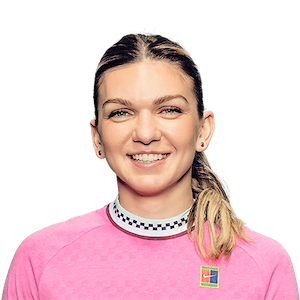
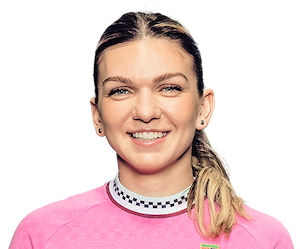
Players Doubles view is looking better

Changed region(s): [[0.0, 0.4498, 1.0, 1.0], [0.3, 0.0281, 0.72, 0.4217]]

diff --git a/src/components/PlayerRowDoubles.vue b/src/components/PlayerRowDoubles.vue
@@ -1,5 +1,5 @@
 <template>
-  <v-row class="player-row">
+  <v-row class="player-row-doubles">
     <v-col :key="`${team.id}`" sm="12" class="col-players">
       <v-row no-gutters>
 
@@ -14,66 +14,70 @@
         >
           <v-img
             :src="require(`../assets/images/headshots/placeholders/${player.gender === 'm' ? 'men' : 'women'}/${player.gender === 'm' ? 'federer' : 'halep'}.png`)"
-            width="280"
-            max-height="230"
-            contain
+            width="230"
             class="avatar"
           >
           </v-img>
         </v-col>
 
-        <!-- <v-col sm="9">
+        <v-col sm="6" class="col-info">
 
           <v-row no-gutters>
 
-            <v-col sm="12" style="margin-top: 20px;">
-              <h1 :class="getTextHeaderClass(player.gender)">{{player.firstName}} {{player.lastName}}</h1>
+            <v-col
+              sm="12"
+              class="player-names"
+            >
+              <h1>
+                <span
+                  v-for="(player, i) in team.players"
+                  :key="player.id"
+                  :class="getTextHeaderClass(player.gender)"
+                >
+                  <span v-if="i > 0" class="doubles-separator">/</span>
+                  {{player.firstName}} {{player.lastName}}
+                </span>
+              </h1>
             </v-col>
 
-            <v-col sm="6">
+            <v-col sm="4">
 
-              <v-row no-gutters style="margin-top: 20px;">
-
+              <v-row no-gutters class="row-player-info">
                 <v-col sm="12">
-                  <h3 :class="getTextHeaderClass(player.gender)">Ranking Points</h3>
+                  <h3>Ranking Points</h3>
                 </v-col>
                 <v-col sm="12">
                   540
                 </v-col>
-
               </v-row>
 
-              <v-row no-gutters style="margin-top: 20px;">
-
+              <v-row no-gutters class="row-player-info">
                 <v-col sm="12">
-                  <h3 :class="getTextHeaderClass(player.gender)">Matches Played</h3>
+                  <h3>Matches Played</h3>
                 </v-col>
                 <v-col sm="12">
                   35
                 </v-col>
-
               </v-row>
 
             </v-col>
 
-            <v-col sm="6">
+            <v-col sm="4">
 
-              <v-row no-gutters style="margin-top: 20px;">
-
+              <v-row no-gutters class="row-player-info">
                 <v-col sm="12">
-                  <h3 :class="getTextHeaderClass(player.gender)">Rating</h3>
+                  <h3>Rating</h3>
                 </v-col>
                 <v-col sm="12">
-                  4.0
+                  8.0
                 </v-col>
-
               </v-row>
 
             </v-col>
 
           </v-row>
 
-        </v-col> -->
+        </v-col>
 
       </v-row>
     </v-col>

diff --git a/src/components/PlayerRowSingles.vue b/src/components/PlayerRowSingles.vue
@@ -1,5 +1,5 @@
 <template>
-  <v-row class="player-row">
+  <v-row class="player-row-singles">
     <v-col :key="`${player.id}`" sm="12" class="col-player">
       <v-row no-gutters>
 
@@ -21,51 +21,45 @@
 
         </v-col>
 
-        <v-col sm="9">
+        <v-col sm="9" class="col-info">
 
           <v-row no-gutters>
 
-            <v-col sm="12" style="margin-top: 20px;">
+            <v-col sm="12">
               <h1 :class="getTextHeaderClass(player.gender)">{{player.firstName}} {{player.lastName}}</h1>
             </v-col>
 
-            <v-col sm="6">
+            <v-col sm="3">
 
-              <v-row no-gutters style="margin-top: 20px;">
-
+              <v-row no-gutters class="row-player-info">
                 <v-col sm="12">
                   <h3 :class="getTextHeaderClass(player.gender)">Ranking Points</h3>
                 </v-col>
                 <v-col sm="12">
                   {{ player.points }}
                 </v-col>
-
               </v-row>
 
-              <v-row no-gutters style="margin-top: 20px;">
-
+              <v-row no-gutters class="row-player-info">
                 <v-col sm="12">
                   <h3 :class="getTextHeaderClass(player.gender)">Matches Played</h3>
                 </v-col>
                 <v-col sm="12">
                   35
                 </v-col>
-
               </v-row>
 
             </v-col>
 
-            <v-col sm="6">
+            <v-col sm="3">
 
-              <v-row no-gutters style="margin-top: 20px;">
-
+              <v-row no-gutters class="row-player-info">
                 <v-col sm="12">
                   <h3 :class="getTextHeaderClass(player.gender)">Rating</h3>
                 </v-col>
                 <v-col sm="12">
                   4.0
                 </v-col>
-
               </v-row>
 
             </v-col>

diff --git a/src/components/PlayersFilterBarHeader.vue b/src/components/PlayersFilterBarHeader.vue
@@ -1,24 +1,25 @@
 <template>
   <v-row no-gutters align="center">
+
     <v-col cols="1">Filters</v-col>
-    <v-col cols="1" v-if="isFilterSet(filterPlayersType) && getFilterValue(filterPlayersType) !== defaultType">
-      <v-chip
-        close
-        @click:close="clearFilterType"
-      >Type: {{ getFilterValue(filterPlayersType) }}</v-chip>
-    </v-col>
-    <v-col cols="1" v-if="isFilterSet(filterPlayersFormat)">
-      <v-chip
-        close
-        @click:close="clearFilterFormat"
-      >Format: {{ getFilterValue(filterPlayersFormat) }}</v-chip>
-    </v-col>
-    <v-col cols="2" v-if="isFilterSet(filterPlayersDateRange)">
-      <v-chip
-        close
-        @click:close="clearFilterDateRange"
-      >Date Range: {{ getDateRangeValue(filterPlayersDateRange) }}</v-chip>
-    </v-col>
+
+    <v-chip
+      v-if="isFilterSet(filterPlayersType) && getFilterValue(filterPlayersType) !== defaultType"
+      close
+      @click:close="clearFilterType"
+    >Type: {{ getFilterValue(filterPlayersType) }}</v-chip>
+    <v-chip
+      v-if="isFilterSet(filterPlayersFormat)"
+      close
+      @click:close="clearFilterFormat"
+      class="chip-header"
+    >Format: {{ getFilterValue(filterPlayersFormat) }}</v-chip>
+    <v-chip
+      v-if="isFilterSet(filterPlayersDateRange)"
+      close
+      @click:close="clearFilterDateRange"
+      class="chip-header"
+    >Date Range: {{ getDateRangeValue(filterPlayersDateRange) }}</v-chip>
   </v-row>
 </template>
 

diff --git a/src/assets/sass/components/_player-row-doubles.sass b/src/assets/sass/components/_player-row-doubles.sass
@@ -1,14 +1,19 @@
-.player-row
-  border-bottom: 2px solid #eee
+.player-row-doubles
+  border-bottom: 2px solid #aaa
   .col-players
     position: relative
+    margin-top: 20px
     padding: 0
   .ranking
     position: absolute
-    top: 20px
-    left: 20px
+    top: 0px
+    left: 35px
     font-size: 46px
   .col-avatars
     position: relative
     .avatar
       margin-left: 30px
+  .col-info
+    padding-left: 50px
+    .row-player-info
+      margin-top: 15px

diff --git a/src/assets/sass/components/_player-row-singles.sass b/src/assets/sass/components/_player-row-singles.sass
@@ -1,12 +1,15 @@
-.player-row
-  border-bottom: 2px solid #eee
+.player-row-singles
+  border-bottom: 2px solid #aaa
   .col-player
+    margin-top: 20px
     padding: 0
     .ranking
       position: absolute
-      top: 20px
-      left: 20px
+      top: 0
+      left: 35px
       font-size: 46px
     .col-avatar
       position: relative
-      .avatar
+    .col-info
+      .row-player-info
+        margin-top: 15px

diff --git a/src/views/Home.vue b/src/views/Home.vue
@@ -112,7 +112,7 @@ export default {
       'filters'
     ]),
     isFilterDoubles () {
-      return this.filters.find(f => f.name === FILTERS.PLAYERS.TYPE && f.value === 'doubles') || true
+      return this.filters.find(f => f.name === FILTERS.PLAYERS.TYPE && f.value === 'doubles')
     },
     playersDoublesSorted () {
       const teams = this.playersDoubles

diff --git a/src/components/PlayersFilterBar.vue b/src/components/PlayersFilterBar.vue
@@ -78,8 +78,6 @@
                     </v-date-picker>
                   </v-menu>
                 </v-col>
-              </v-row>
-              <v-row no-gutters>
                 <v-col cols="4">
                   <v-menu
                     ref="toDateMenu"

diff --git a/src/assets/sass/index.sass b/src/assets/sass/index.sass
@@ -6,3 +6,4 @@
 
 @import './components/player-row-doubles.sass'
 @import './components/player-row-singles.sass'
+@import './components/players-filter-bar-header.sass'

diff --git a/src/assets/sass/base/_general.sass b/src/assets/sass/base/_general.sass
@@ -9,3 +9,6 @@ body
 
 .textWomen
   color: $text-color-women
+
+.doubles-separator
+  color: $text-color-doubles-separator

diff --git a/src/assets/sass/base/_variables.sass b/src/assets/sass/base/_variables.sass
@@ -1,3 +1,4 @@
 // Colors
 $text-color-men: #00b1ef
 $text-color-women: #3313b5
+$text-color-doubles-separator: #aaaaaa

diff --git a/src/assets/sass/components/_players-filter-bar-header.sass b/src/assets/sass/components/_players-filter-bar-header.sass
@@ -1,0 +1,2 @@
+.chip-header
+  margin-left: 20px
